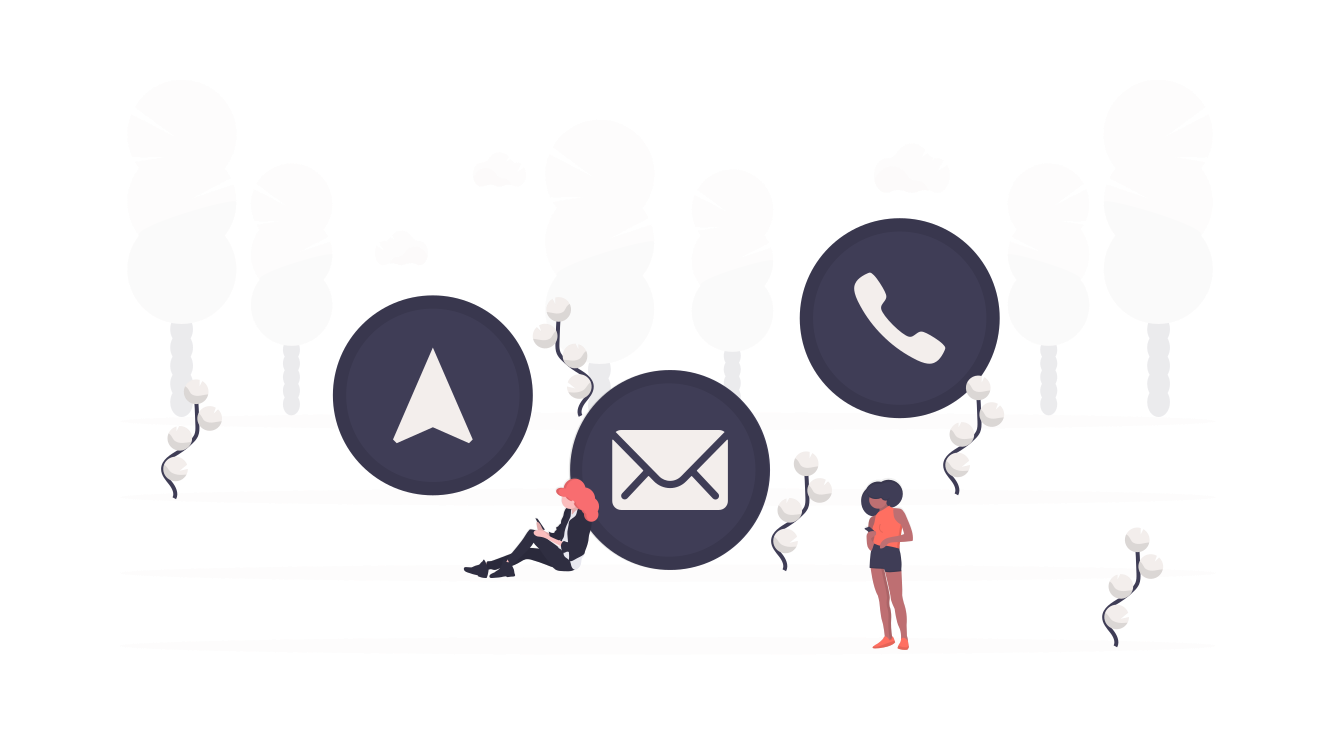
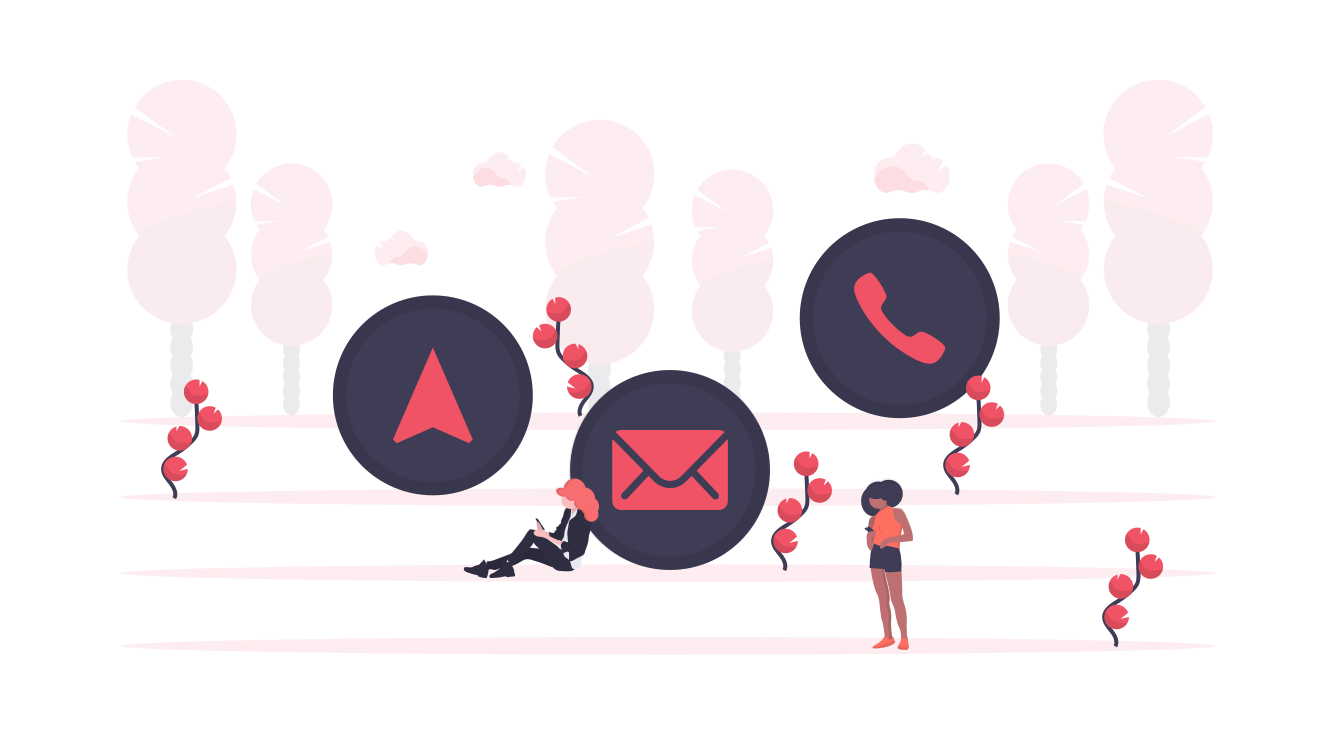
colour & font change

diff --git a/css/contact.css b/css/contact.css
@@ -14,8 +14,8 @@ img.resize {
     display: flex;
 	justify-content: space-around;
 	align-items: center;
-	margin-left:50px;
-	margin-right:80px
+	margin-left:20px;
+	margin-right:90px
   }
 nav{
 	height: 80px;
@@ -90,8 +90,8 @@ nav{
 }
 
 #contact h3 {
-	color:#BD93BD (255, 80, 203);
-	color: rgb(255, 80, 203);
+	color:#F05365 (255, 80, 203);
+	color: #F05365 (255, 80, 203);
 	display: block;
 	font-size: 30px;
     font-weight: 400;
@@ -138,15 +138,15 @@ fieldset {
 	cursor:pointer;
 	width:100%;
 	border:none;
-	background: #925E78 (139, 28, 139);
-	color: #925e78;
+	background: #F05365 (139, 28, 139);
+	color: white;
 	margin:0 0 5px;
 	padding:10px;
 	font-size:15px;
 }
 
 #contact button[type="submit"]:hover {
-	background: #925E78(124, 48, 124);
+	background: #F05365(124, 48, 124);
 	-webkit-transition:background 0.3s ease-in-out;
 	-moz-transition:background 0.3s ease-in-out;
 	transition:background-color 0.3s ease-in-out;

diff --git a/contact.html b/contact.html
@@ -18,10 +18,10 @@
   </button>
   <div class="collapse navbar-collapse justify-content-end" id="navbarNavAltMarkup">
     <div class="navbar-nav">
-      <a class="nav-item nav-link active" href="#">Home <span class="sr-only">(current)</span></a>
+      <a class="nav-item nav-link" href="#">Home <span class="sr-only">(current)</span></a>
       <a class="nav-item nav-link" href="#">Resources</a>
       <a class="nav-item nav-link" href="#">Activity Generator</a>
-      <a class="nav-item nav-link" href="#">Contact Us</a>
+      <a class="nav-item nav-link active" href="#">Contact Us</a>
     </div>
   </div>
 </nav>
